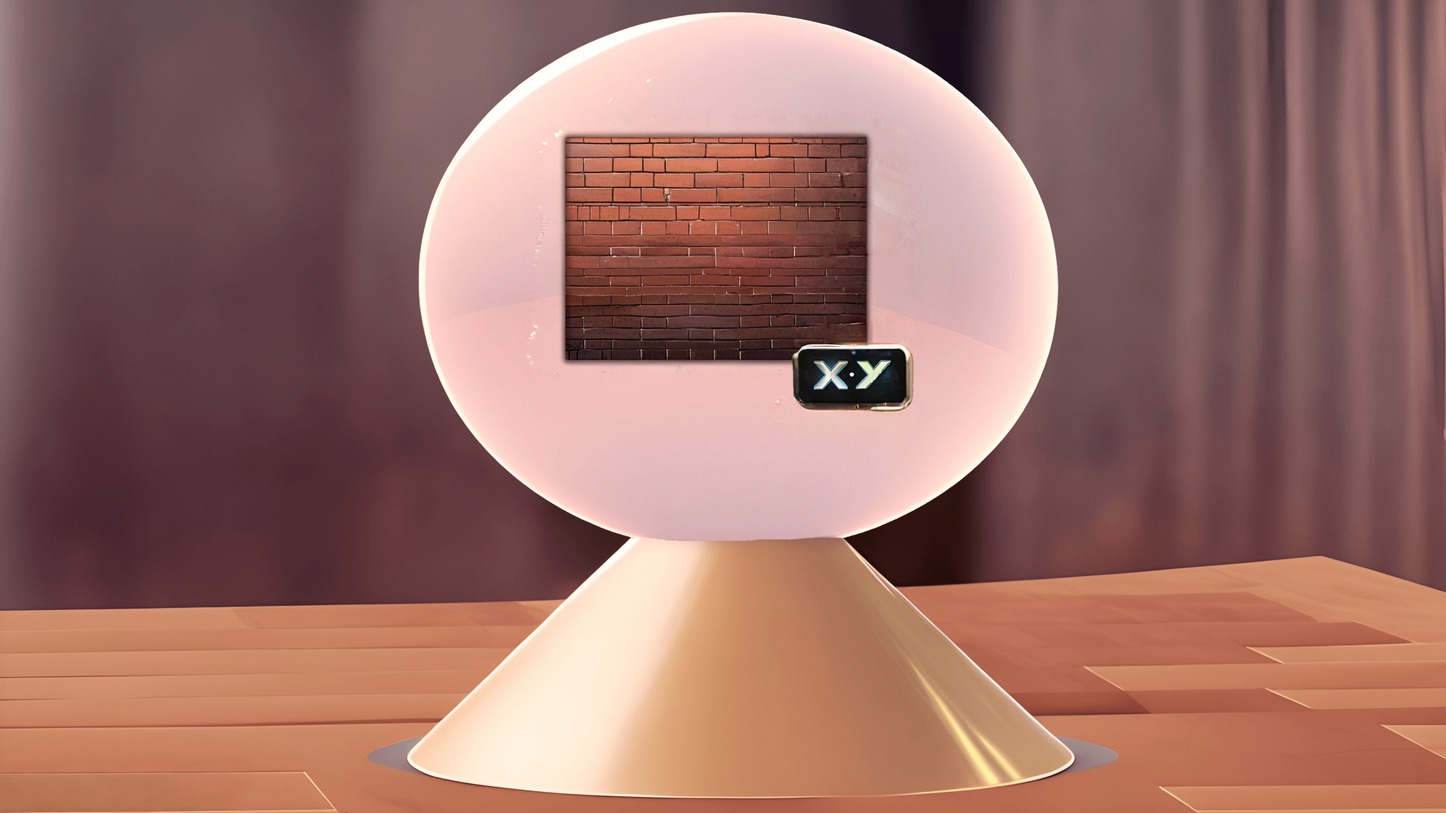
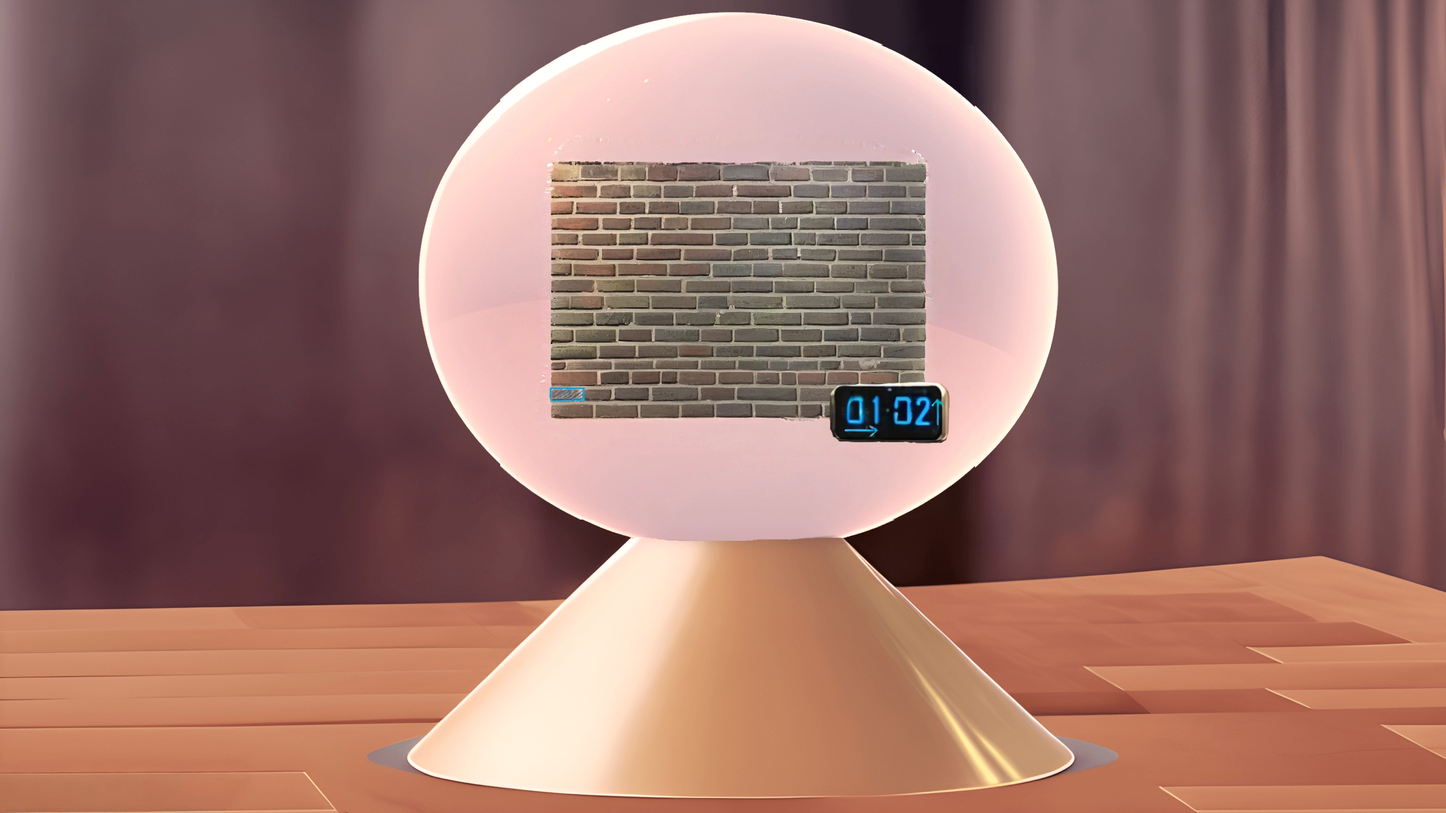
Refactor brick wall puzzle
Add memory stick + replace hint

Changed region(s): [[0.3732, 0.1539, 0.6842, 0.5542]]

diff --git a/src/scenes/DungeonScene.ts b/src/scenes/DungeonScene.ts
@@ -1,21 +1,51 @@
 import { Sprite } from "pixi.js";
 import { Direction, NavigationArrow } from "../components/NavigationArrow";
 import { BaseScene } from "./BaseScene";
-import { library } from "../state/rooms";
+import { itemHub, library } from "../state/rooms";
 import { HitBox } from "../components/HitBox";
 import { Hightlight } from "../components/Highlight";
+import { GameState } from "../state/GameState";
 
 export class DungeonScene extends BaseScene {
+  private memoryStickCutout: Sprite;
+  private brickSolution = [3, 5, 20, 37, 43, 51];
+  private puzzleSolution = Array.from({ length: 66 }, (_, i) => this.brickSolution.includes(i));
+
   constructor() {
     super(Sprite.from("dungeon"));
+    this.memoryStickCutout = Sprite.from("memoryStick");
 
-    this.addCutout("brick", 1500, 590);
     this.loadHitBoxes();
     this.loadPuzzleHitBoxes();
   }
 
   public loadNavigation() {
     this.addChild(new NavigationArrow(library, Direction.Right));
+  }
+
+  public checkDungeonPuzzle(idx: number) {
+    GameState.brickState[idx] = !GameState.brickState[idx];
+    var isSolved = GameState.brickState.every((value, index) => value === this.puzzleSolution[index]);
+    if (isSolved && !GameState.solvedDungeon) {
+      this.finishDungeonPuzzle();
+    }
+  }
+
+  private finishDungeonPuzzle() {
+    GameState.solvedDungeon = true;
+    this.addCutout("pidestal", 1093, 643);
+    this.addCutoutSprite(this.memoryStickCutout, 1235, 620);
+
+    const memoryStick = new HitBox(1235, 624, 90, 30, 0, 0, false);
+    this.takeMemoryStick = this.takeMemoryStick.bind(this);
+    memoryStick.addClickAction(() => this.takeMemoryStick(memoryStick), "", "(Memory stick was added to inventory)");
+    this.addChild(memoryStick);
+  }
+
+  private takeMemoryStick(memoryStick: HitBox) {
+    this.removeChild(memoryStick);
+    this.removeChild(this.memoryStickCutout);
+    itemHub.addItem("memory stick");
   }
 
   private loadHitBoxes() {

diff --git a/src/components/Highlight.ts b/src/components/Highlight.ts
@@ -1,5 +1,4 @@
 import { Graphics } from "pixi.js";
-import { GameState } from "../state/GameState";
 import { dungeon } from "../state/rooms";
 
 export class Hightlight extends Graphics {
@@ -9,8 +8,6 @@ export class Hightlight extends Graphics {
   private alphavalue: number;
   private brickNumber: number;
 
-  private brickSolution = [3, 5, 20, 37, 43, 51];
-  private puzzleSolution = Array.from({ length: 66 }, (_, i) => this.brickSolution.includes(i));
   constructor(brickNumber: number, x = 100, y = 100, width = 200, height = 100, cornerRadius = 5, alphavalue = 0.3) {
     super();
     this.x = x;
@@ -28,7 +25,6 @@ export class Hightlight extends Graphics {
   }
 
   drawOverlay() {
-    //0x331f09
     this.beginFill(0xfffffff);
     this.drawRoundedRect(this.x, this.y, this.drawWidth, this.drawHeight, this.cornerRadius);
     this.endFill();
@@ -42,15 +38,8 @@ export class Hightlight extends Graphics {
     this.on("pointertap", () => {
       this.toggleVisibility();
       const idx = this.brickNumber - 1;
-      GameState.brickState[idx] = !GameState.brickState[idx];
-      var isSolved = GameState.brickState.every((value, index) => value === this.puzzleSolution[index]);
-      if (isSolved && !GameState.solvedDungeon) {
-        GameState.solvedDungeon = true;
-        dungeon.addCutout("pidestal", 1093, 643);
-        setTimeout(() => {
-          dungeon.addText(["Congrats, you solved it!"]);
-        }, 1000);
-      }
+      // To make this more generic, this function should be (optionally) passed to the highlight
+      dungeon.checkDungeonPuzzle(idx);
     });
   }
 }

diff --git a/src/assets.ts b/src/assets.ts
@@ -119,8 +119,8 @@ export const manifest: ResolverManifest = {
     {
       name: "dungeon",
       assets: {
+        memoryStick: `${BASE_URL}/dungeon/memory-stick.png`,
         dungeon: `${BASE_URL}/dungeon/dungeon.png`,
-        brick: `${BASE_URL}/dungeon/brick.png`,
         pidestal: `${BASE_URL}/dungeon/pidestal.png`,
       },
     },
@@ -150,6 +150,8 @@ export const manifest: ResolverManifest = {
         crowbar: `${BASE_URL}/items/crowbar.png`,
         crowbarHighlighted: `${BASE_URL}/items/crowbar-highlighted.png`,
         paper: `${BASE_URL}/items/floorplan.png`,
+        "memory stick": `${BASE_URL}/items/memory-stick.png`,
+        "memory stickHighlighted": `${BASE_URL}/items/memory-stick-highlighted.png`,
       },
     },
   ],

diff --git a/src/scenes/BaseScene.ts b/src/scenes/BaseScene.ts
@@ -55,7 +55,7 @@ export class BaseScene extends Container implements IScene {
     return Sprite.from(this.background.texture);
   }
 
-  protected addCutoutSprite(cutout: Sprite, x: number, y: number, zIndex = 0): void {
+  public addCutoutSprite(cutout: Sprite, x: number, y: number, zIndex = 0): void {
     cutout.scale.set(this.backgroundScale);
     cutout.position = new Point(x, y);
     cutout.zIndex = zIndex;
